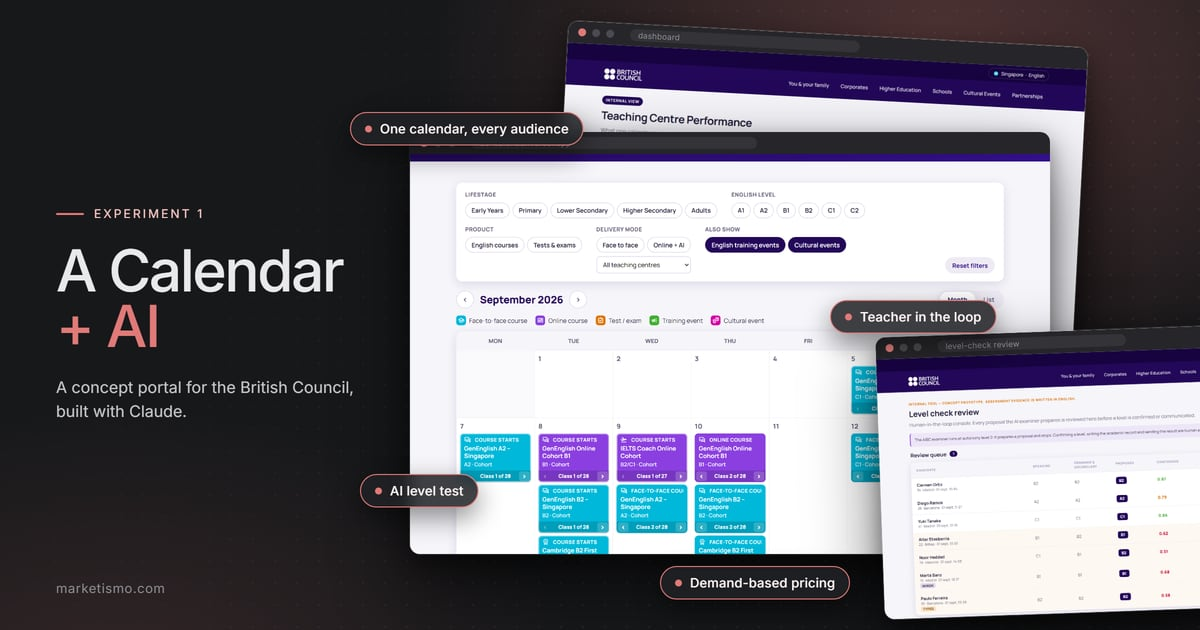
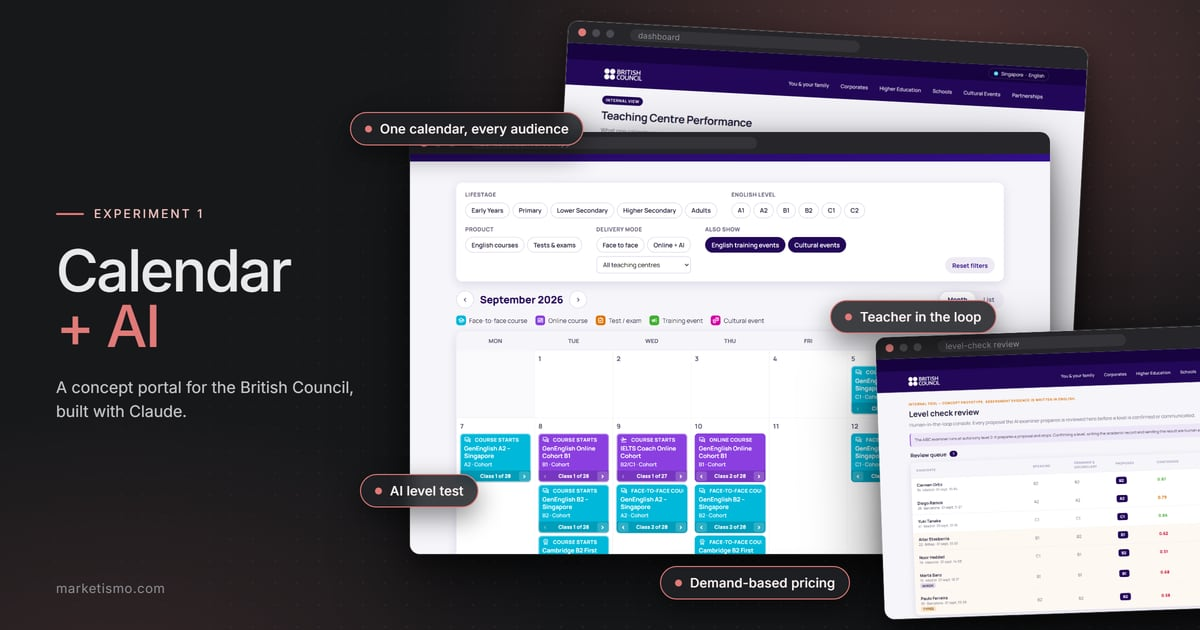
Rename Experiment 1 to Calendar + AI and expand goal 1

Changed region(s): [[0.0308, 0.3921, 0.2775, 0.4825]]

diff --git a/experiments/calendar-ai/index.html b/experiments/calendar-ai/index.html
@@ -26,13 +26,13 @@ j=d.createElement(s),dl=l!='dataLayer'?'&l='+l:'';j.async=true;j.src=
 'https://www.googletagmanager.com/gtm.js?id='+i+dl;f.parentNode.insertBefore(j,f);
 })(window,document,'script','dataLayer','GTM-PH86G99C');</script>
 <!-- End Google Tag Manager -->
-<title>Experiment 1: a Calendar + AI — Marketismo</title>
+<title>Experiment 1: Calendar + AI — Marketismo</title>
 <meta name="description" content="The British Council Calendar concept: every course, exam and cultural event in one portal, an AI level test with a teacher in the loop, demand-based pricing and dashboards for every team.">
 <link rel="canonical" href="https://www.marketismo.com/experiments/calendar-ai/">
 
 <meta property="og:type" content="article">
 <meta property="og:site_name" content="Marketismo">
-<meta property="og:title" content="Experiment 1: a Calendar + AI">
+<meta property="og:title" content="Experiment 1: Calendar + AI">
 <meta property="og:description" content="What happens when you bring business intelligence, strategic vision and AI together? The British Council Calendar concept.">
 <meta property="og:url" content="https://www.marketismo.com/experiments/calendar-ai/">
 <meta property="og:image" content="https://www.marketismo.com/assets/img/experiments/calendar-ai-og.jpg">
@@ -74,7 +74,7 @@ height="0" width="0" style="display:none;visibility:hidden"></iframe></noscript>
           <span class="eyebrow-mark"></span>
           <span class="eyebrow-text">Experiment 1</span>
         </div>
-        <h1>A Calendar <em>+ AI</em></h1>
+        <h1>Calendar <em>+ AI</em></h1>
         <p class="article-lead">Want to see what happens when you bring business intelligence, strategic vision and AI together?</p>
         <p class="article-sub">The British Council Calendar concept.</p>
         <a class="article-jump" href="https://bc-calendar.vercel.app/" target="_blank" rel="noopener">Open the live prototype
@@ -95,7 +95,7 @@ height="0" width="0" style="display:none;visibility:hidden"></iframe></noscript>
 
         <h2>Two goals</h2>
         <ol class="goals">
-          <li><strong>Showcase everything, everywhere.</strong> Every course, exam and cultural event across the world in one place, in line with the One British Council philosophy: the audience sees everything the British Council offers, which positions it as the world's true English experts.</li>
+          <li><strong>Showcase everything, everywhere.</strong> Every course, exam and cultural event across the world in one place, in line with the One British Council philosophy: the audience sees everything the British Council offers, which positions it as the world's true English experts. Moreover, people organise their training activities around a calendar, because training sessions compete with sports, work, trips, meetings, medical appointments or dinners.</li>
           <li><strong>Maximise class fill.</strong> Increase student numbers with a self-service journey: level check, course selection, payment and enrolment.</li>
         </ol>
 

diff --git a/index.html b/index.html
@@ -78,7 +78,7 @@ height="0" width="0" style="display:none;visibility:hidden"></iframe></noscript>
         <a class="tile tile--experiment" href="/experiments/calendar-ai/">
           <span class="tile-media"><img src="assets/img/experiments/calendar-ai-1200.webp" alt="" width="1200" height="630" loading="lazy"></span>
           <span class="tile-kicker">Experiment 1</span>
-          <span class="tile-title">A Calendar + AI</span>
+          <span class="tile-title">Calendar + AI</span>
           <span class="tile-body">A concept portal for the British Council: every course, exam and event in one calendar, an AI level test with a teacher in the loop, and demand-based pricing.</span>
           <span class="tile-cta">Read the experiment
             <svg width="14" height="14" viewBox="0 0 256 256" fill="currentColor" aria-hidden="true"><path d="m181.7 133.7-80 80a8 8 0 0 1-11.4-11.4L164.7 128 90.3 53.7a8 8 0 0 1 11.4-11.4l80 80a8 8 0 0 1 0 11.4Z"/></svg>
